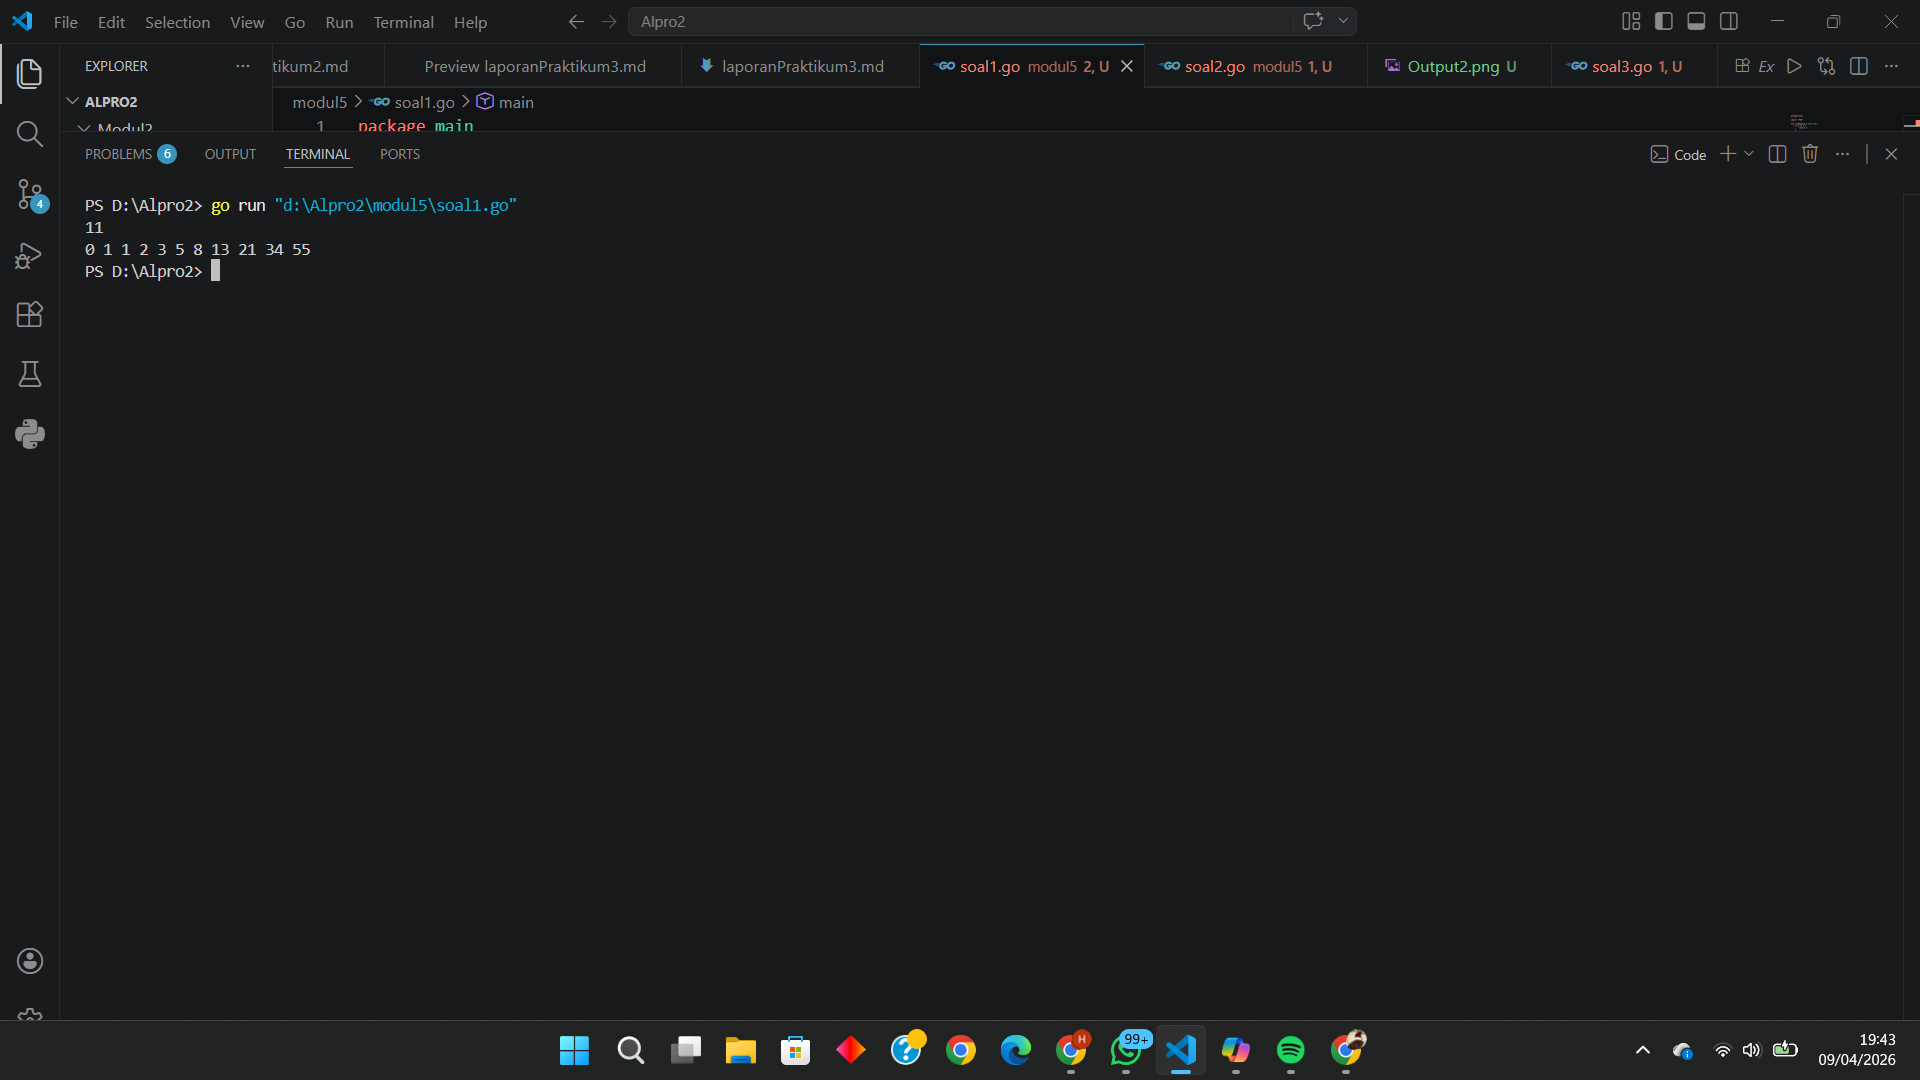
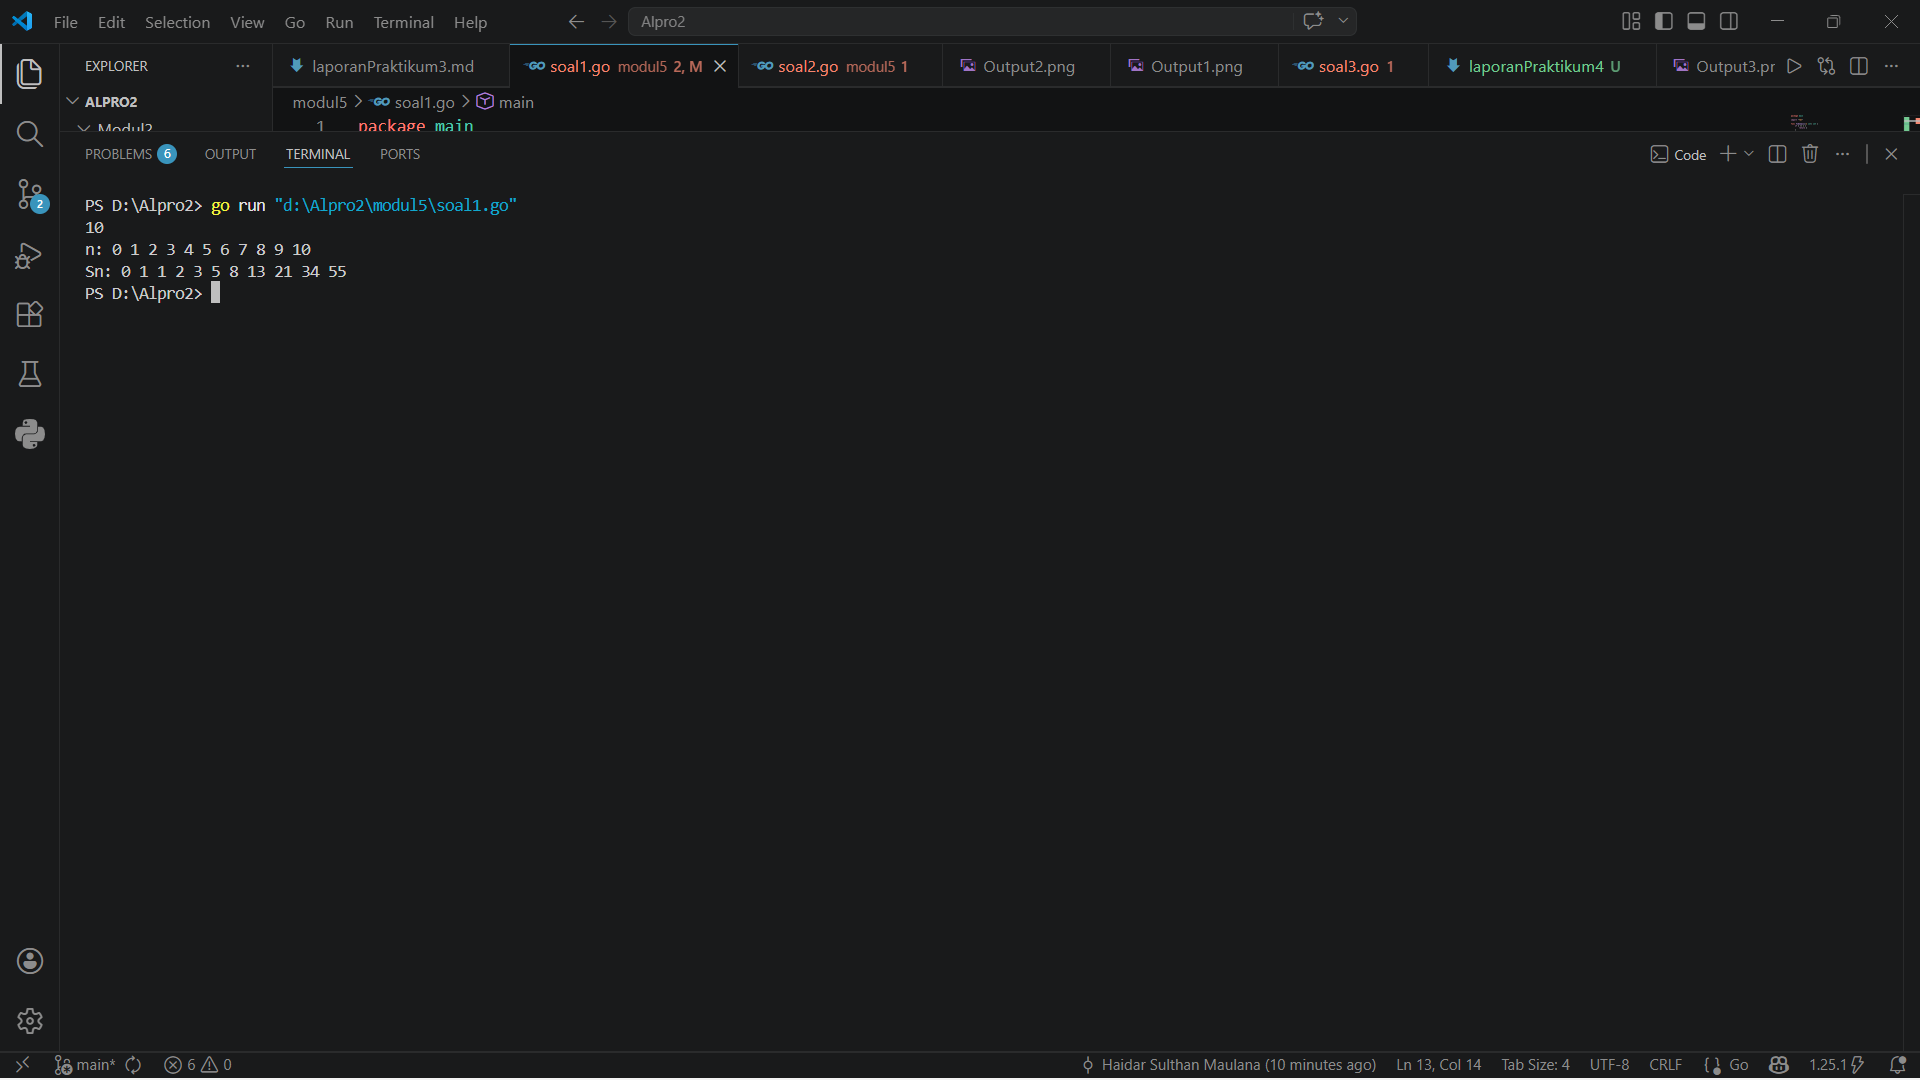
fixlaprak

diff --git a/modul5/soal1.go b/modul5/soal1.go
@@ -8,10 +8,20 @@ func fibonacci(n int) int {
 	}
 	return fibonacci(n-1) + fibonacci(n-2)
 }
+
 func main() {
 	var n int
 	fmt.Scan(&n)
-	for i := 0; i < n; i++ {
-		fmt.Printf("%d ", fibonacci(i))
+
+	fmt.Print("n: ")
+	for i := 0; i <= n; i++ {
+		fmt.Print(i, " ")
 	}
+	fmt.Println()
+
+	fmt.Print("Sn: ")
+	for i := 0; i <= n; i++ {
+		fmt.Print(fibonacci(i), " ")
+	}
+
 }
